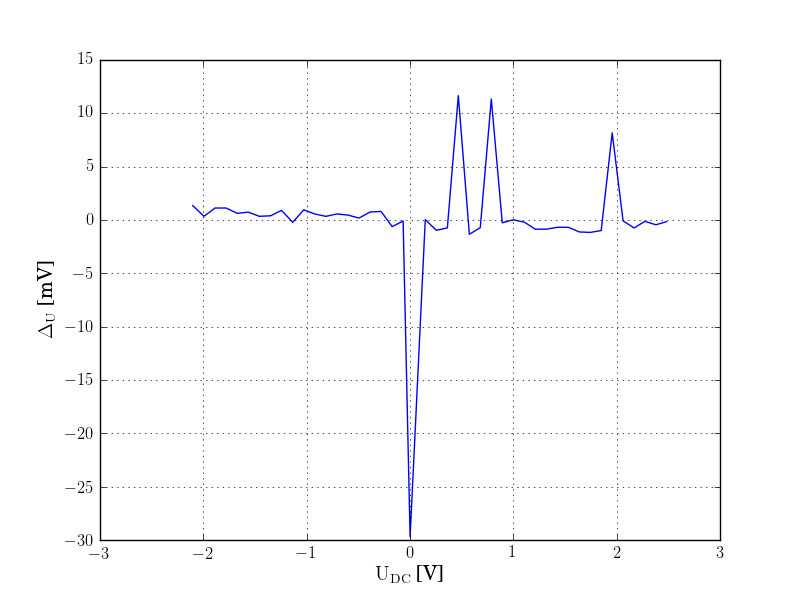
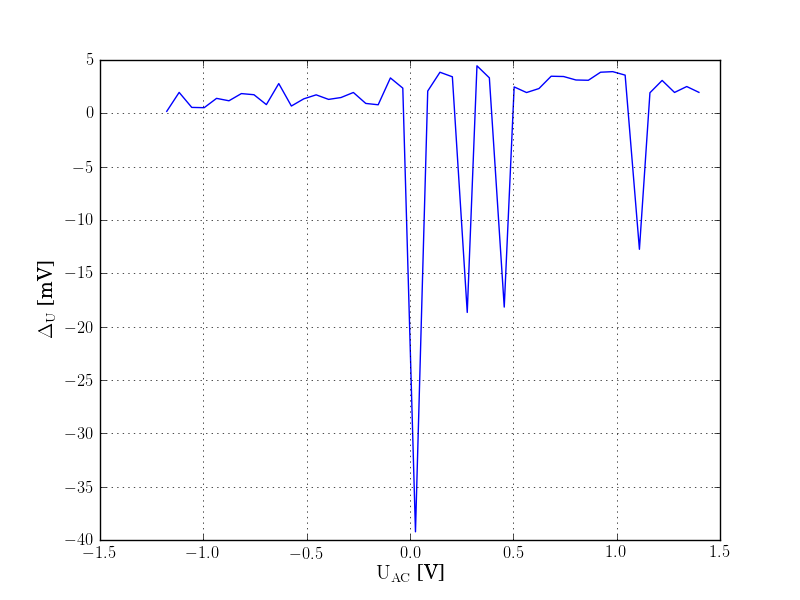
minor bug fixes in second point

diff --git a/SP/szoste/script/sixth.py b/SP/szoste/script/sixth.py
@@ -75,15 +75,18 @@ def uac_x():
 
 def uac_udc():
     configure_plot()
-    plt.plot(U_DC, U_AC, [0.001], [0.02648], 'ro')
-    plt.ylabel("{\\Large $\\mathrm{U_{AC}}$ [V]}")
-    plt.xlabel("{\\Large $\\mathrm{U_{DC}}$ [V]}")
+    for i in range(len(U_DC)):
+        if U_DC[i] < 0:
+            U_AC[i] *= -1
+    plt.plot(U_AC, U_DC, [0.02648], [0.001], 'ro')
+    plt.ylabel("{\\Large $\\mathrm{U_{DC}}$ [V]}")
+    plt.xlabel("{\\Large $\\mathrm{U_{AC}}$ [V]}")
     plt.savefig("../img/Uac_od_Udc.png")
     configure_plot()
-    error = abs_error(U_DC, U_AC, 0.001) * 1000
-    plt.plot(U_DC, error)
+    error = abs_error(U_AC, U_DC) * 1000
+    plt.plot(U_AC, error)
     plt.ylabel("{\\Large $\\mathrm{\\Delta_U$ [mV]}")
-    plt.xlabel("{\\Large $\\mathrm{U_{DC}}$ [V]}")
+    plt.xlabel("{\\Large $\\mathrm{U_{AC}}$ [V]}")
     plt.savefig("../img/Uac_Udc_blad.png")
 
 
